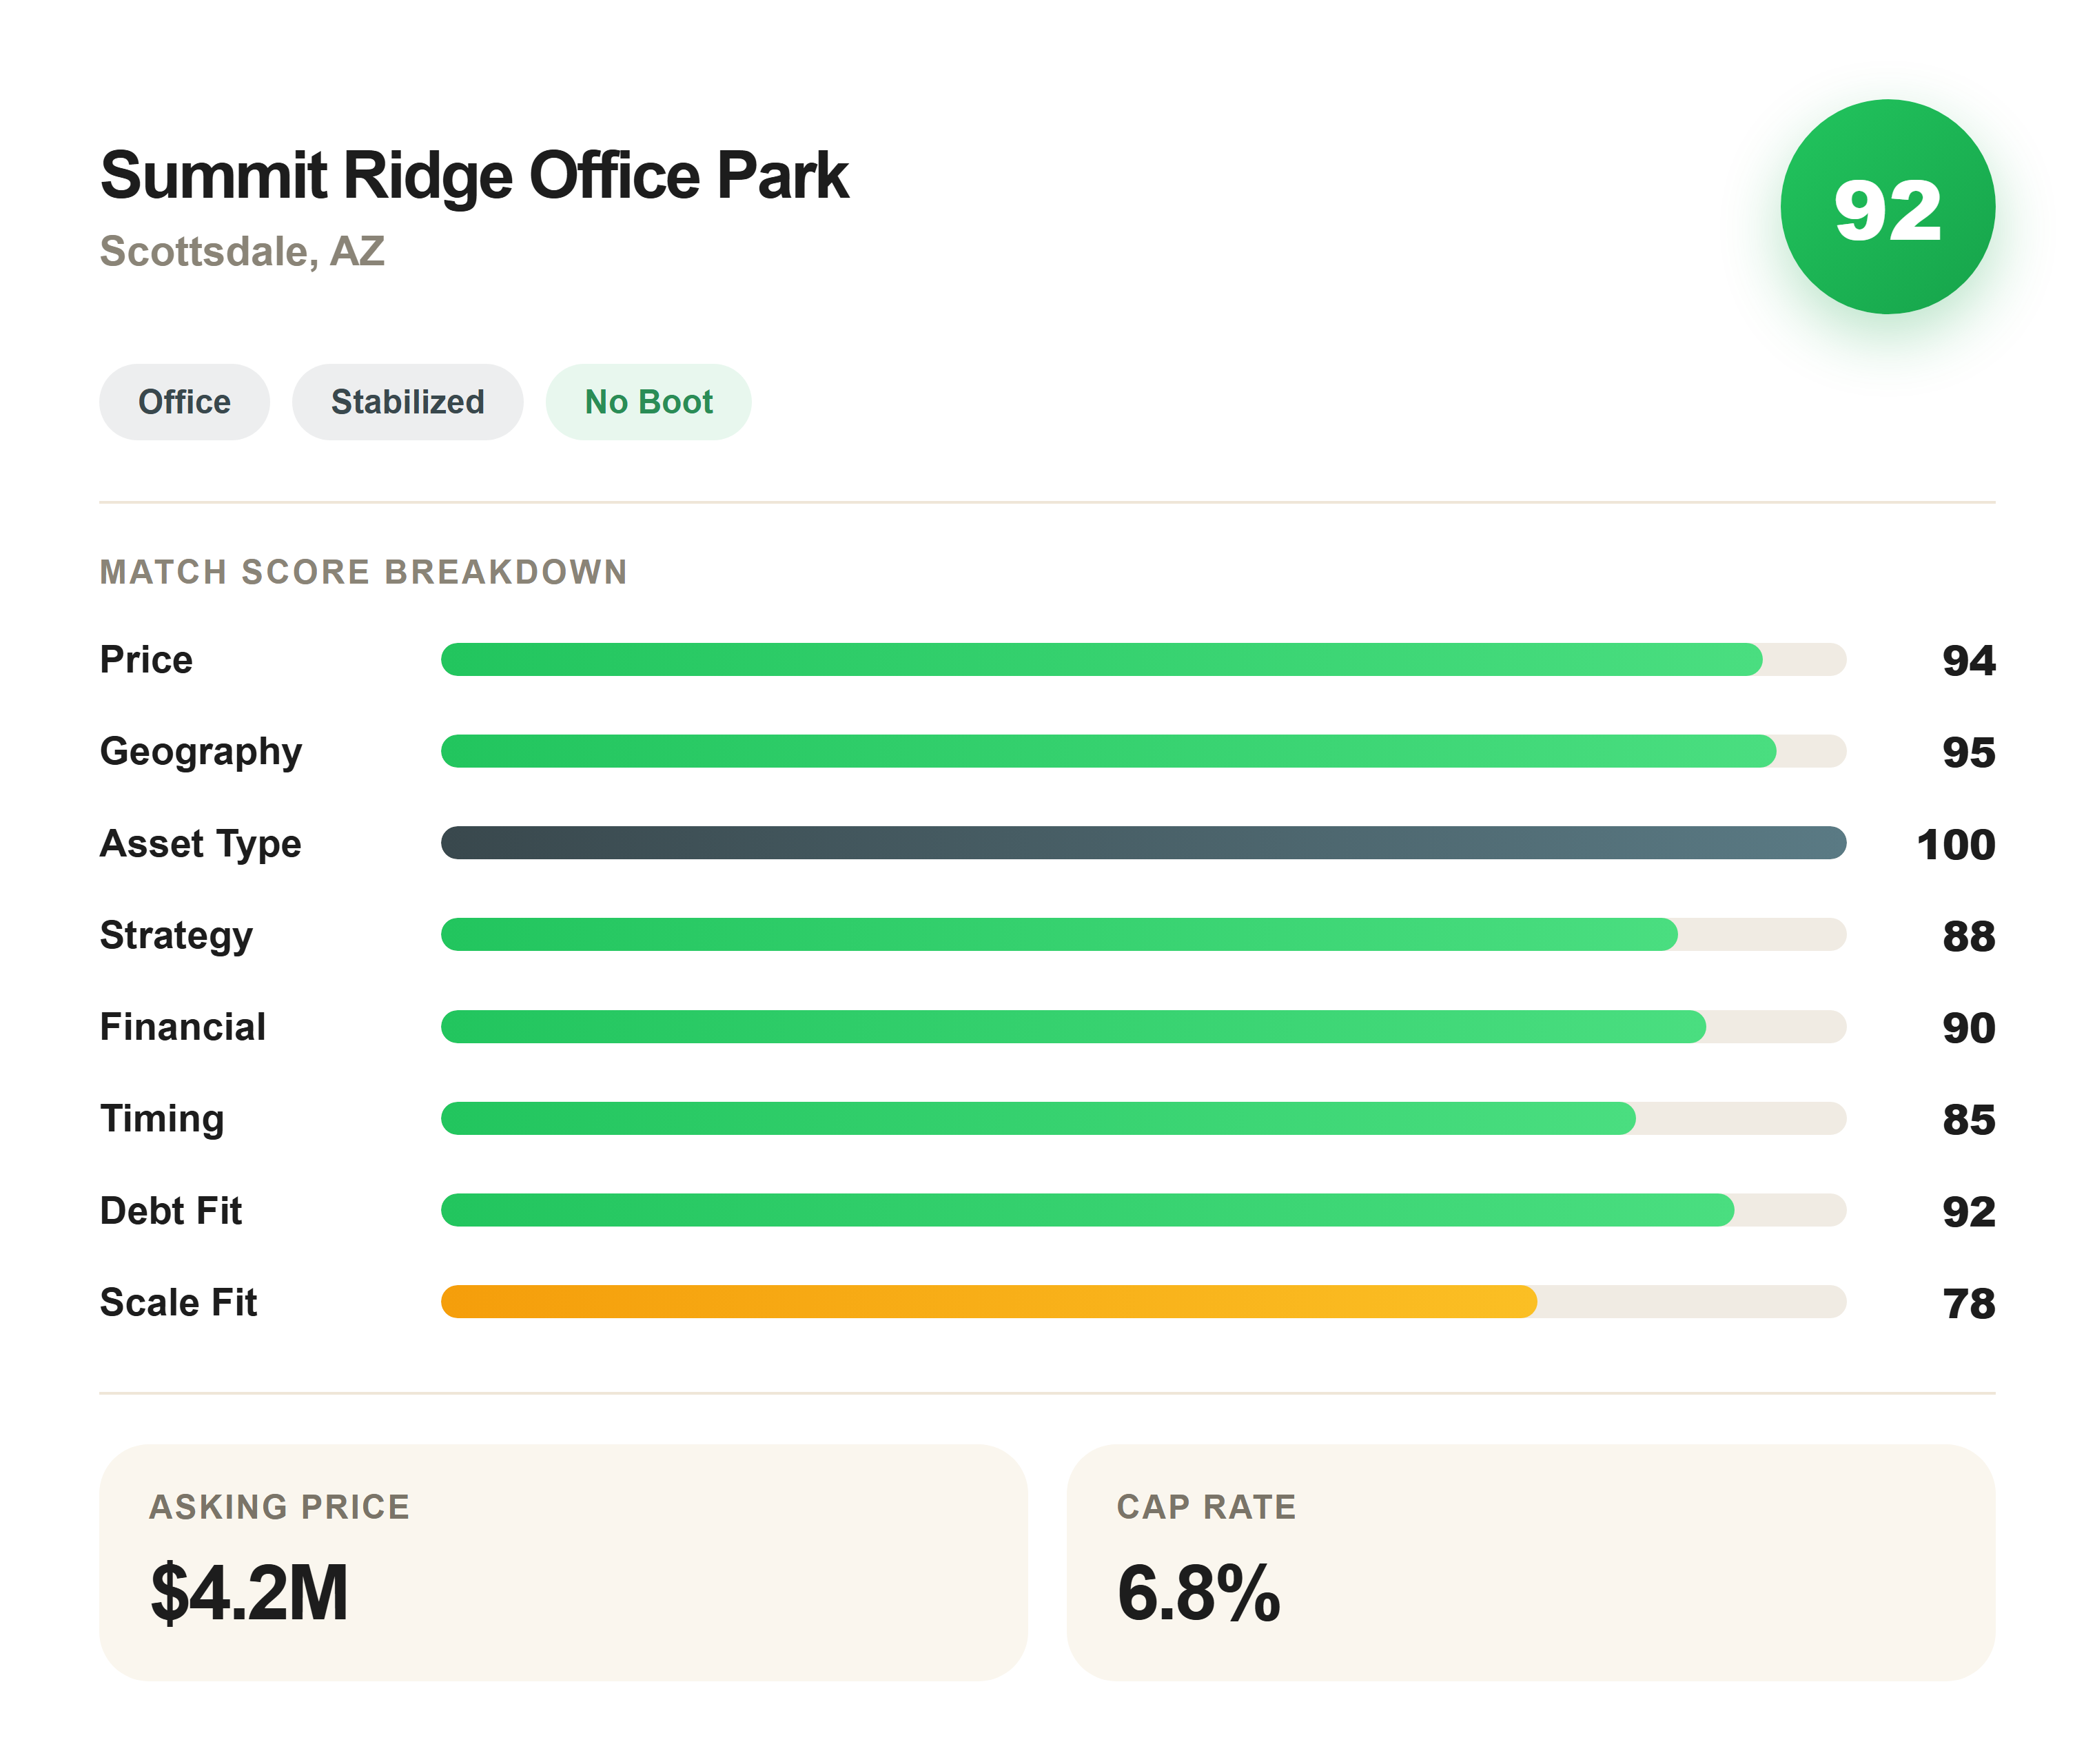
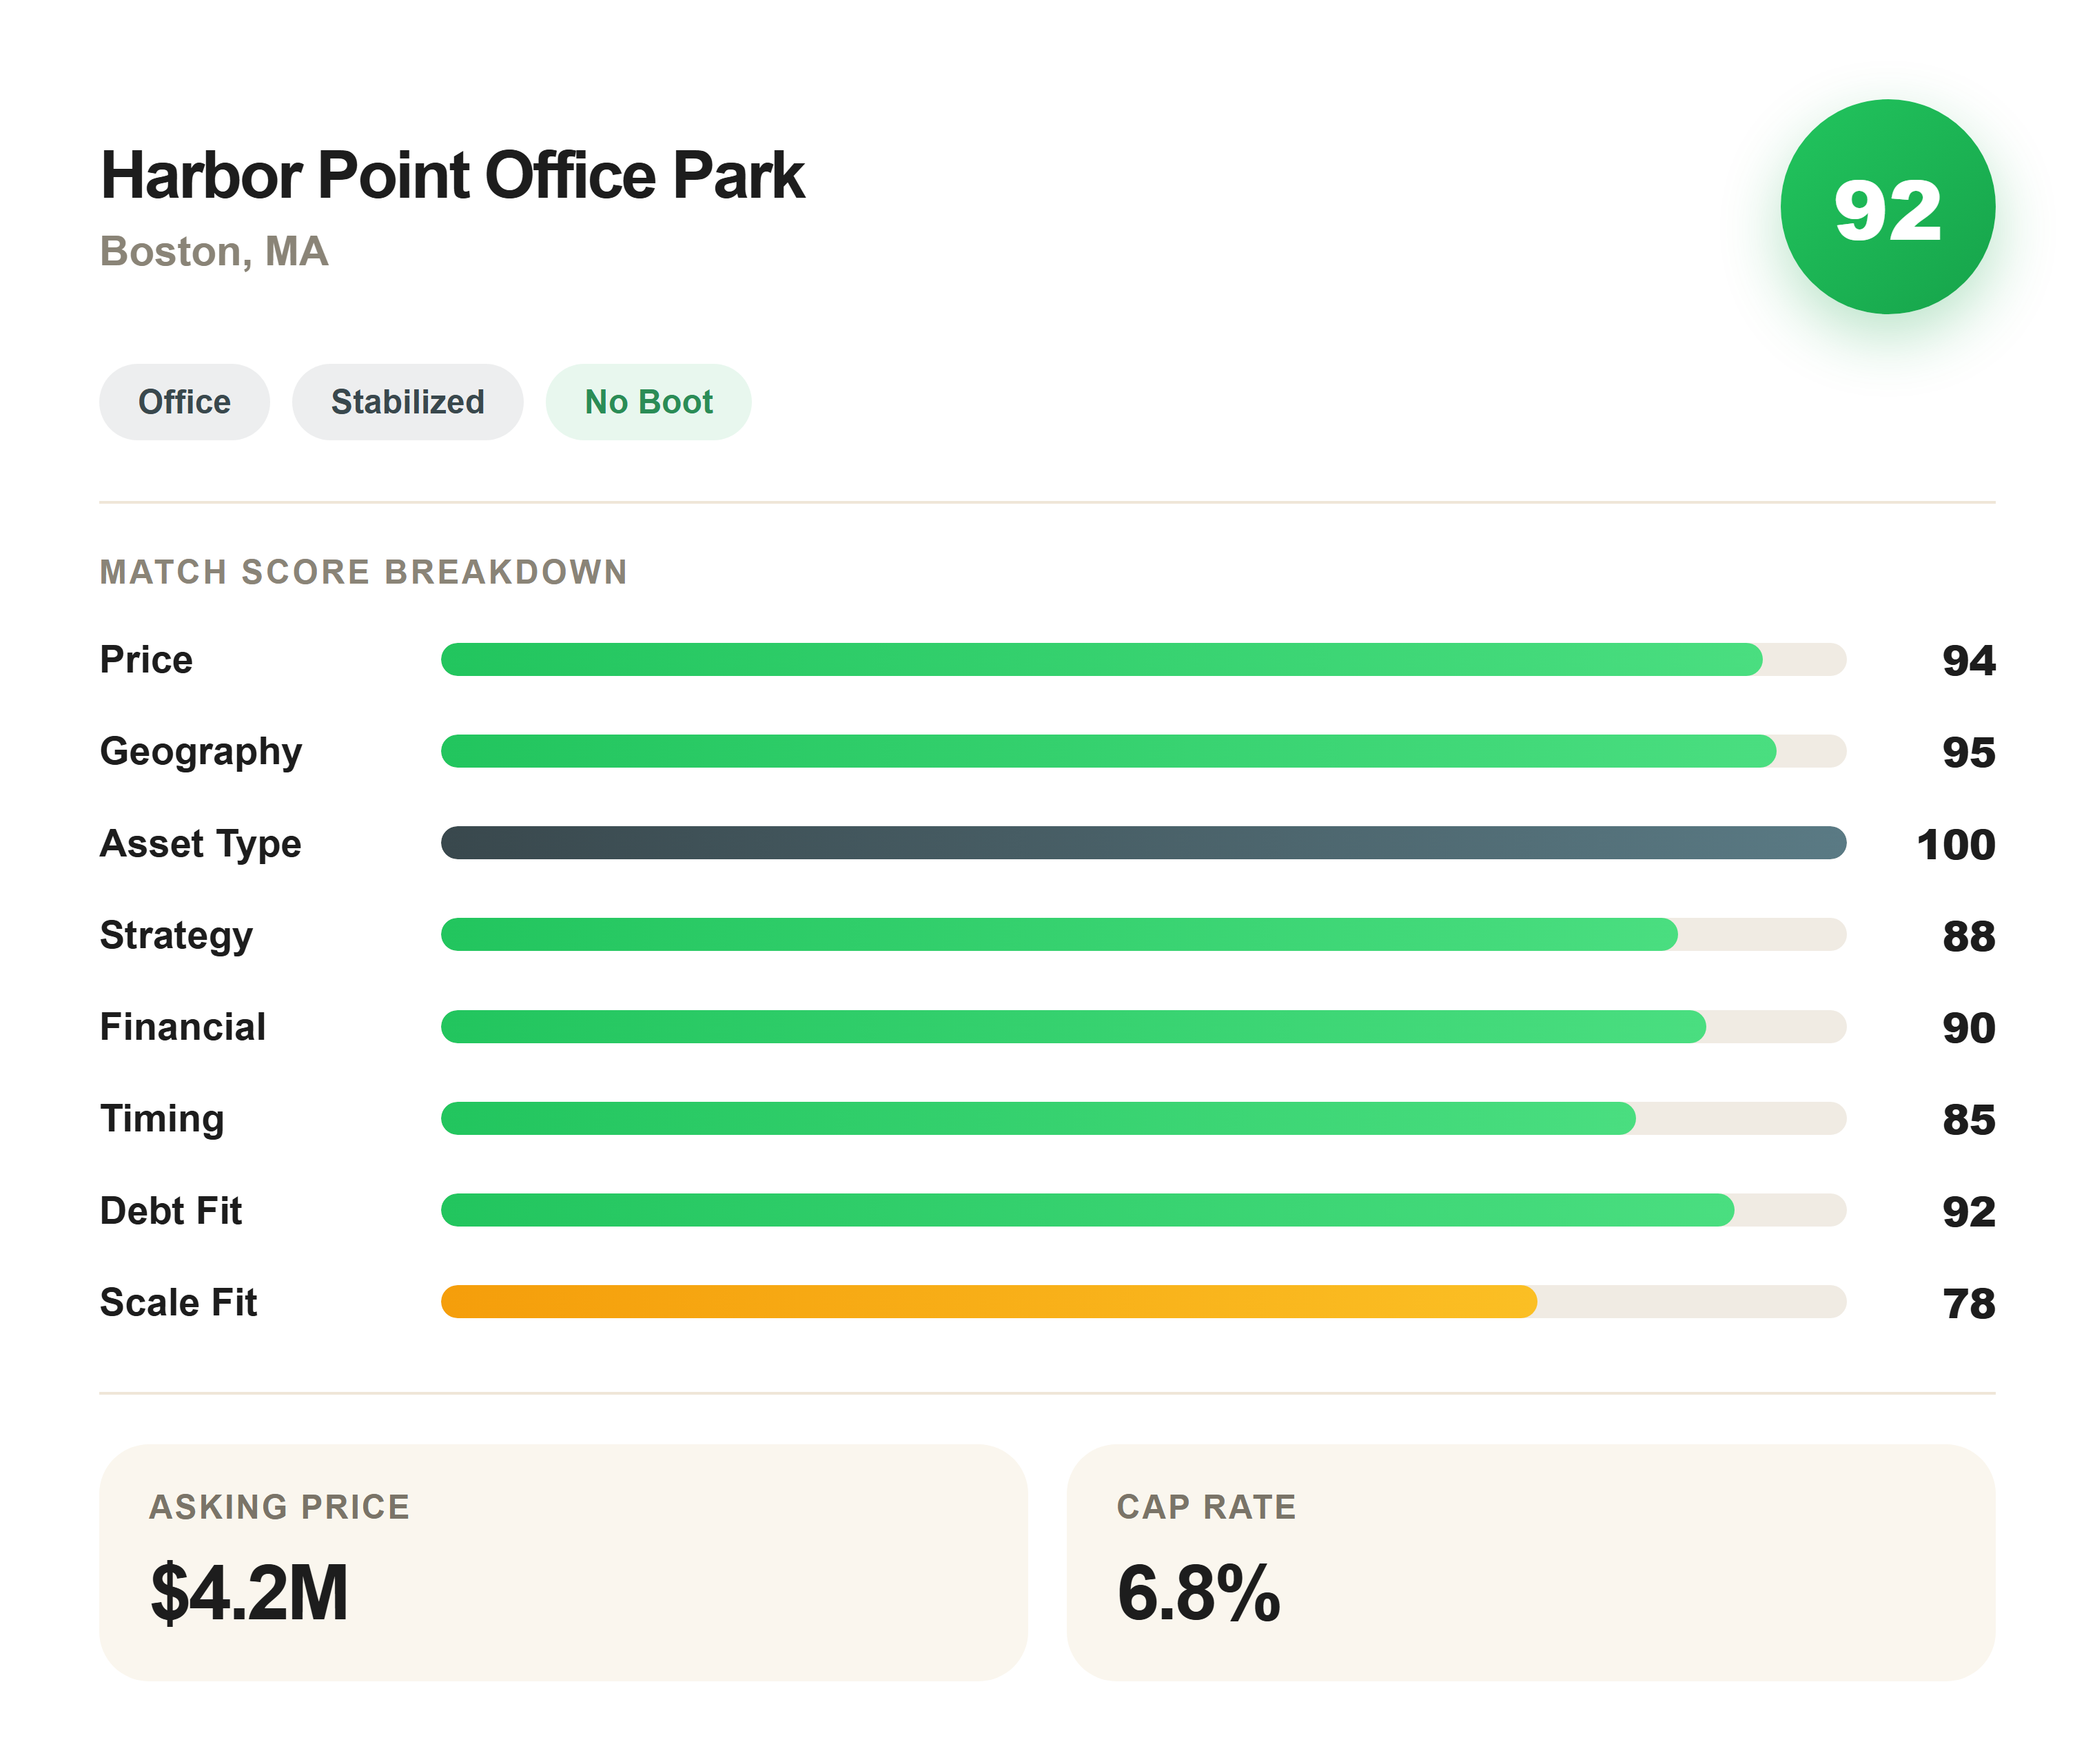
Refresh New England landing examples

Changed region(s): [[0.0312, 0.0625, 0.4062, 0.1562]]

diff --git a/src/pages/Index.tsx b/src/pages/Index.tsx
@@ -332,7 +332,7 @@ const EASY_SETUP_PREVIEW_MARKUP: Record<EasySetupCardId, string> = {
         </div>
         <div data-preview-input-group>
           <div data-preview-input-label>Relinquished property</div>
-          <div data-preview-input-field>Phoenix, AZ office</div>
+          <div data-preview-input-field>Cambridge, MA office</div>
         </div>
         <div data-preview-input-group>
           <div data-preview-input-label>Asset type</div>
@@ -351,15 +351,15 @@ const EASY_SETUP_PREVIEW_MARKUP: Record<EasySetupCardId, string> = {
           <div data-preview-mini-match data-preview-mini-match-variant="featured">
             <div data-preview-score-chip data-preview-score-variant="high">92</div>
             <div>
-              <div data-preview-mini-match-title>Summit Ridge Office</div>
-              <div data-preview-mini-match-meta>$4.2M &middot; Scottsdale, AZ</div>
+              <div data-preview-mini-match-title>Harbor Point Office</div>
+              <div data-preview-mini-match-meta>$4.2M &middot; Boston, MA</div>
             </div>
           </div>
           <div data-preview-mini-match>
             <div data-preview-score-chip data-preview-score-variant="good">88</div>
             <div>
-              <div data-preview-mini-match-title>Parkview Retail</div>
-              <div data-preview-mini-match-meta>$3.75M &middot; Chandler, AZ</div>
+              <div data-preview-mini-match-title>Back Bay Retail</div>
+              <div data-preview-mini-match-meta>$3.75M &middot; Newton, MA</div>
             </div>
           </div>
         </div>
@@ -375,8 +375,8 @@ const EASY_SETUP_PREVIEW_MARKUP: Record<EasySetupCardId, string> = {
         <div data-preview-match-strip>
           <div data-preview-match-strip-dot>92</div>
           <div>
-            <div data-preview-match-strip-title>Summit Ridge Office</div>
-            <div data-preview-match-strip-meta>$4.2M &middot; Scottsdale, AZ</div>
+            <div data-preview-match-strip-title>Harbor Point Office</div>
+            <div data-preview-match-strip-meta>$4.2M &middot; Boston, MA</div>
           </div>
         </div>
         <div data-preview-chat-bubble data-preview-chat-side="them">
@@ -2315,32 +2315,32 @@ function getFeatureOffMarketMarkup() {
           <div data-feature-market-photo></div>
           <div data-feature-market-pill>Private</div>
           <div data-feature-market-body>
-            <div data-feature-market-name>Summit Ridge Office</div>
-            <div data-feature-market-meta>$4.2M &middot; Scottsdale, AZ</div>
+            <div data-feature-market-name>Harbor Point Office</div>
+            <div data-feature-market-meta>$4.2M &middot; Boston, MA</div>
           </div>
         </div>
         <div data-feature-market-card data-feature-market-variant="2">
           <div data-feature-market-photo></div>
           <div data-feature-market-pill>Private</div>
           <div data-feature-market-body>
-            <div data-feature-market-name>Parkview Retail</div>
-            <div data-feature-market-meta>$3.75M &middot; Chandler, AZ</div>
+            <div data-feature-market-name>Back Bay Retail</div>
+            <div data-feature-market-meta>$3.75M &middot; Newton, MA</div>
           </div>
         </div>
         <div data-feature-market-card data-feature-market-variant="3">
           <div data-feature-market-photo></div>
           <div data-feature-market-pill>Private</div>
           <div data-feature-market-body>
-            <div data-feature-market-name>Lakeshore Industrial</div>
-            <div data-feature-market-meta>$5.1M &middot; Mesa, AZ</div>
+            <div data-feature-market-name>Merrimack Logistics</div>
+            <div data-feature-market-meta>$5.1M &middot; Lowell, MA</div>
           </div>
         </div>
         <div data-feature-market-card data-feature-market-variant="4">
           <div data-feature-market-photo></div>
           <div data-feature-market-pill>Private</div>
           <div data-feature-market-body>
-            <div data-feature-market-name>Canyon Vista Apts</div>
-            <div data-feature-market-meta>$6.8M &middot; Tempe, AZ</div>
+            <div data-feature-market-name>Seaport Landing Apts</div>
+            <div data-feature-market-meta>$6.8M &middot; Quincy, MA</div>
           </div>
         </div>
       </div>
@@ -2376,7 +2376,7 @@ function getFeatureScoringMarkup() {
     <div data-feature-window>
       <div data-feature-score-header>
         <div>
-          <div data-feature-score-title>Summit Ridge Office Park</div>
+          <div data-feature-score-title>Harbor Point Office Park</div>
           <div data-feature-score-sub>Match score breakdown</div>
         </div>
         <div data-feature-score-overall>92</div>
@@ -2402,7 +2402,7 @@ function getFeatureFiltersMarkup() {
         <div data-feature-filter-chips>
           <div data-feature-filter-chip>
             <span>Geography</span>
-            <strong>Phoenix MSA</strong>
+            <strong>Greater Boston</strong>
           </div>
           <div data-feature-filter-chip>
             <span>Asset type</span>
@@ -2430,22 +2430,22 @@ function getFeatureFiltersMarkup() {
         <div data-feature-filter-result-card data-feature-filter-result-variant="featured">
           <div data-feature-filter-result-score>94</div>
           <div>
-            <div data-feature-filter-result-title>Summit Ridge Office</div>
-            <div data-feature-filter-result-meta>$4.2M &middot; 6.8% cap &middot; Scottsdale</div>
+            <div data-feature-filter-result-title>Harbor Point Office</div>
+            <div data-feature-filter-result-meta>$4.2M &middot; 6.8% cap &middot; Boston</div>
           </div>
         </div>
         <div data-feature-filter-result-card>
           <div data-feature-filter-result-score>88</div>
           <div>
-            <div data-feature-filter-result-title>Parkview Retail</div>
-            <div data-feature-filter-result-meta>$3.75M &middot; 7.2% cap &middot; Chandler</div>
+            <div data-feature-filter-result-title>Back Bay Retail</div>
+            <div data-feature-filter-result-meta>$3.75M &middot; 7.2% cap &middot; Newton</div>
           </div>
         </div>
         <div data-feature-filter-result-card>
           <div data-feature-filter-result-score>85</div>
           <div>
-            <div data-feature-filter-result-title>Desert Square Plaza</div>
-            <div data-feature-filter-result-meta>$4.8M &middot; 6.9% cap &middot; Gilbert</div>
+            <div data-feature-filter-result-title>Worcester Square Plaza</div>
+            <div data-feature-filter-result-meta>$4.8M &middot; 6.9% cap &middot; Worcester</div>
           </div>
         </div>
       </div>
@@ -2463,8 +2463,8 @@ function getFeatureUpsideMarkup() {
       <div data-feature-upside-compare>
         <div data-feature-upside-card data-feature-upside-card-variant="current">
           <div data-feature-upside-card-label>Current property</div>
-          <div data-feature-upside-card-name>Camelback Office Plaza</div>
-          <div data-feature-upside-card-meta>Phoenix, AZ</div>
+          <div data-feature-upside-card-name>Cambridge Office Plaza</div>
+          <div data-feature-upside-card-meta>Cambridge, MA</div>
           <div data-feature-upside-card-rows>
             <div><span>Value</span><strong>$3.2M</strong></div>
             <div><span>NOI</span><strong>$180K/yr</strong></div>
@@ -2474,8 +2474,8 @@ function getFeatureUpsideMarkup() {
         <div data-feature-upside-card data-feature-upside-card-variant="candidate">
           <div data-feature-upside-card-badge>Candidate</div>
           <div data-feature-upside-card-label>Replacement</div>
-          <div data-feature-upside-card-name>Summit Ridge Office</div>
-          <div data-feature-upside-card-meta>Scottsdale, AZ</div>
+          <div data-feature-upside-card-name>Harbor Point Office</div>
+          <div data-feature-upside-card-meta>Boston, MA</div>
           <div data-feature-upside-card-rows>
             <div><span>Value</span><strong>$4.2M</strong></div>
             <div><span>NOI</span><strong>$245K/yr</strong></div>